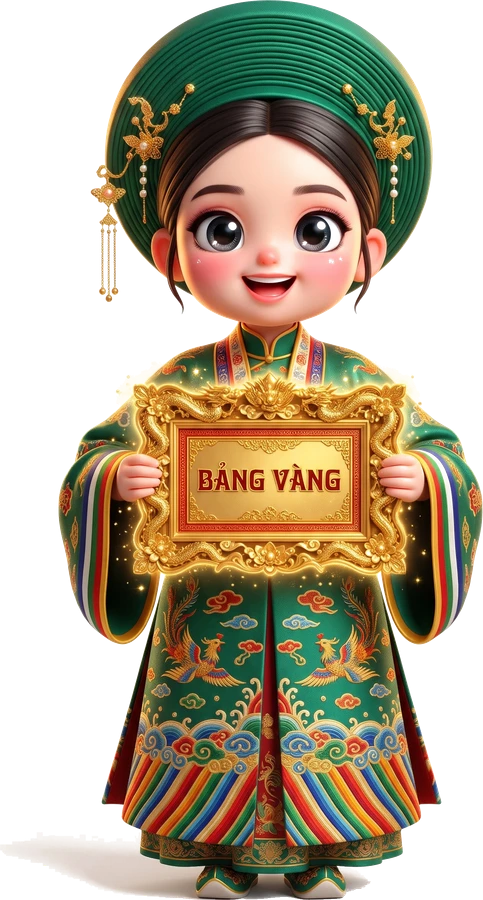
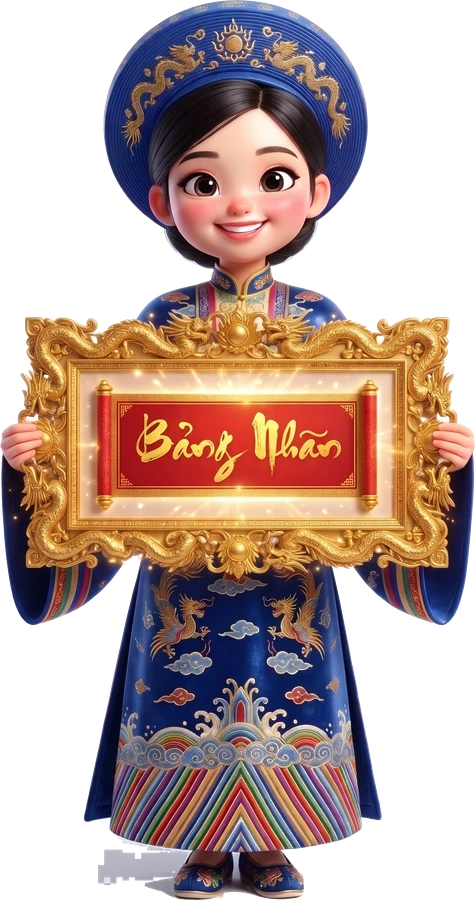
ảnh nữ Bảng Nhãn, Thám Hoa vẽ lại đúng chữ; mở khoá ảnh nữ hạng 2, 3

diff --git a/src/game/GameStage.tsx b/src/game/GameStage.tsx
@@ -311,9 +311,7 @@ function BangVang({ v }: { v: View }) {
   );
 }
 
-// Ảnh nữ hạng 2, 3 đang ghi sai chữ trên bảng: tạm dùng ảnh nam tới khi chủ kênh vẽ lại
-const CO_ANH_NU: Record<number, boolean> = { 1: true, 2: false, 3: false };
-const anh = (h: Hang) => (CO_ANH_NU[h.hang] ? h.gioi : 'nam');
+const anh = (h: Hang) => h.gioi;
 
 /** Ảnh đại diện TikTok, viền vàng; không có ảnh thì hiện chữ cái đầu */
 function Avatar({ h, size }: { h: Hang; size: number }) {

diff --git a/CLAUDE.md b/CLAUDE.md
@@ -46,7 +46,7 @@ Game show trắc nghiệm cho TikTok LIVE theo không khí khoa cử xưa. Ông 
 - Ảnh nền và nhân vật ông đồ do chủ kênh vẽ (2026-11-07).
 - Bộ câu hỏi bàn riêng, chưa làm (2026-11-07).
 - Màn cuối ván: tiêu đề "Hiền tài là nguyên khí của quốc gia" thay chữ Vinh quy bái tổ (2026-11-07). Tam khôi dùng ảnh public/assets/top/ (tách nền ra public/assets/nv/top/), nam hay nữ cố định theo tên tài khoản.
-- Ảnh nữ hạng 2 (ghi "Bảng Vàng") và hạng 3 (ghi "Bảng Nhãn") sai chữ trên bảng: tạm dùng ảnh nam (CO_ANH_NU trong GameStage.tsx), chờ chủ kênh vẽ lại.
+- Ảnh nữ hạng 2 (Bảng Nhãn) và hạng 3 (Thám Hoa) chủ kênh đã vẽ lại đúng chữ, dùng đủ nam/nữ cho cả tam khôi (2026-11-07).
 - Giọng quan chủ khảo: VieNeu "Adam bựa" (2026-11-07).
 - Lời ông đồ có cảm xúc (thẻ [cười] [thở dài] [hắng giọng] của VieNeu), đổi theo tỉ lệ đúng: >=75% cười, <30% trêu, 0 người thở dài; đúng trong 2 giây đầu khen thần đồng. Chủ kênh duyệt (2026-11-07).
 - Nam/nữ của tam khôi: người chơi gõ "nam"/"nữ" (nhớ cả buổi) > đoán theo tên tiếng Việt (src/game/gioiTinh.ts: Thị = nữ, Văn = nam, danh sách tên) > cố định theo tài khoản. Màn trao giải có avatar TikTok cạnh tên (2026-11-07).
